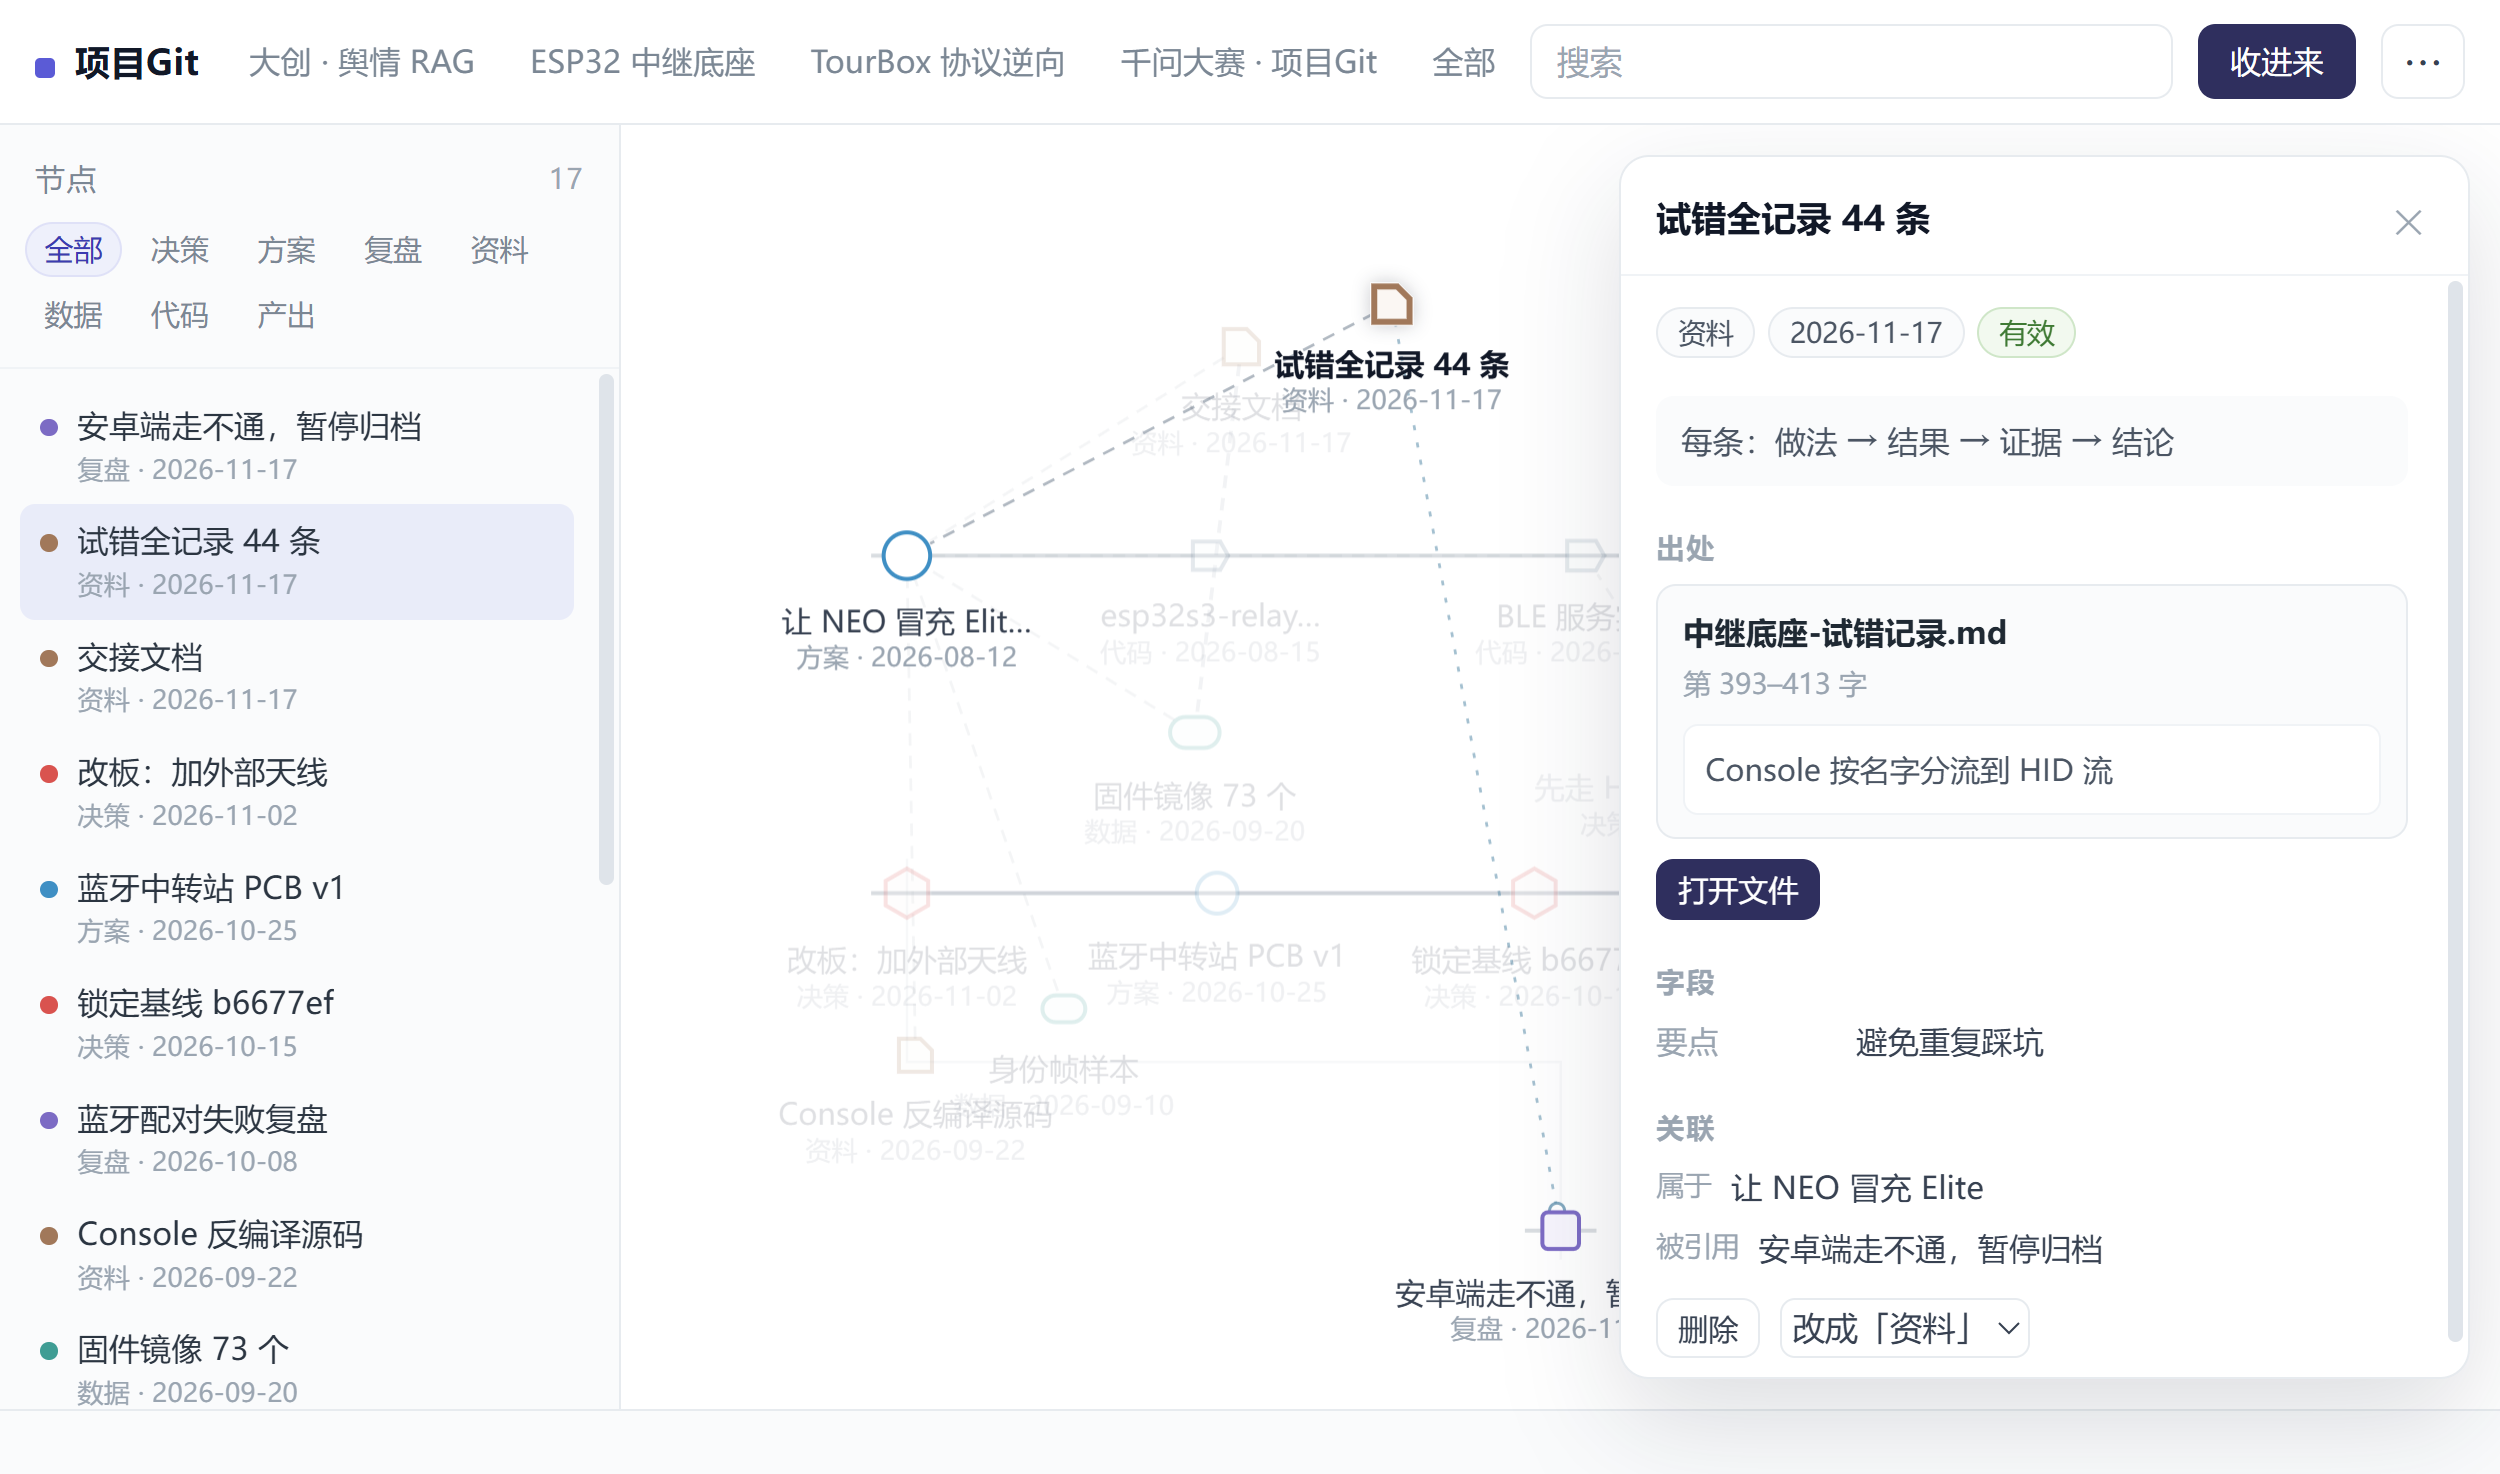
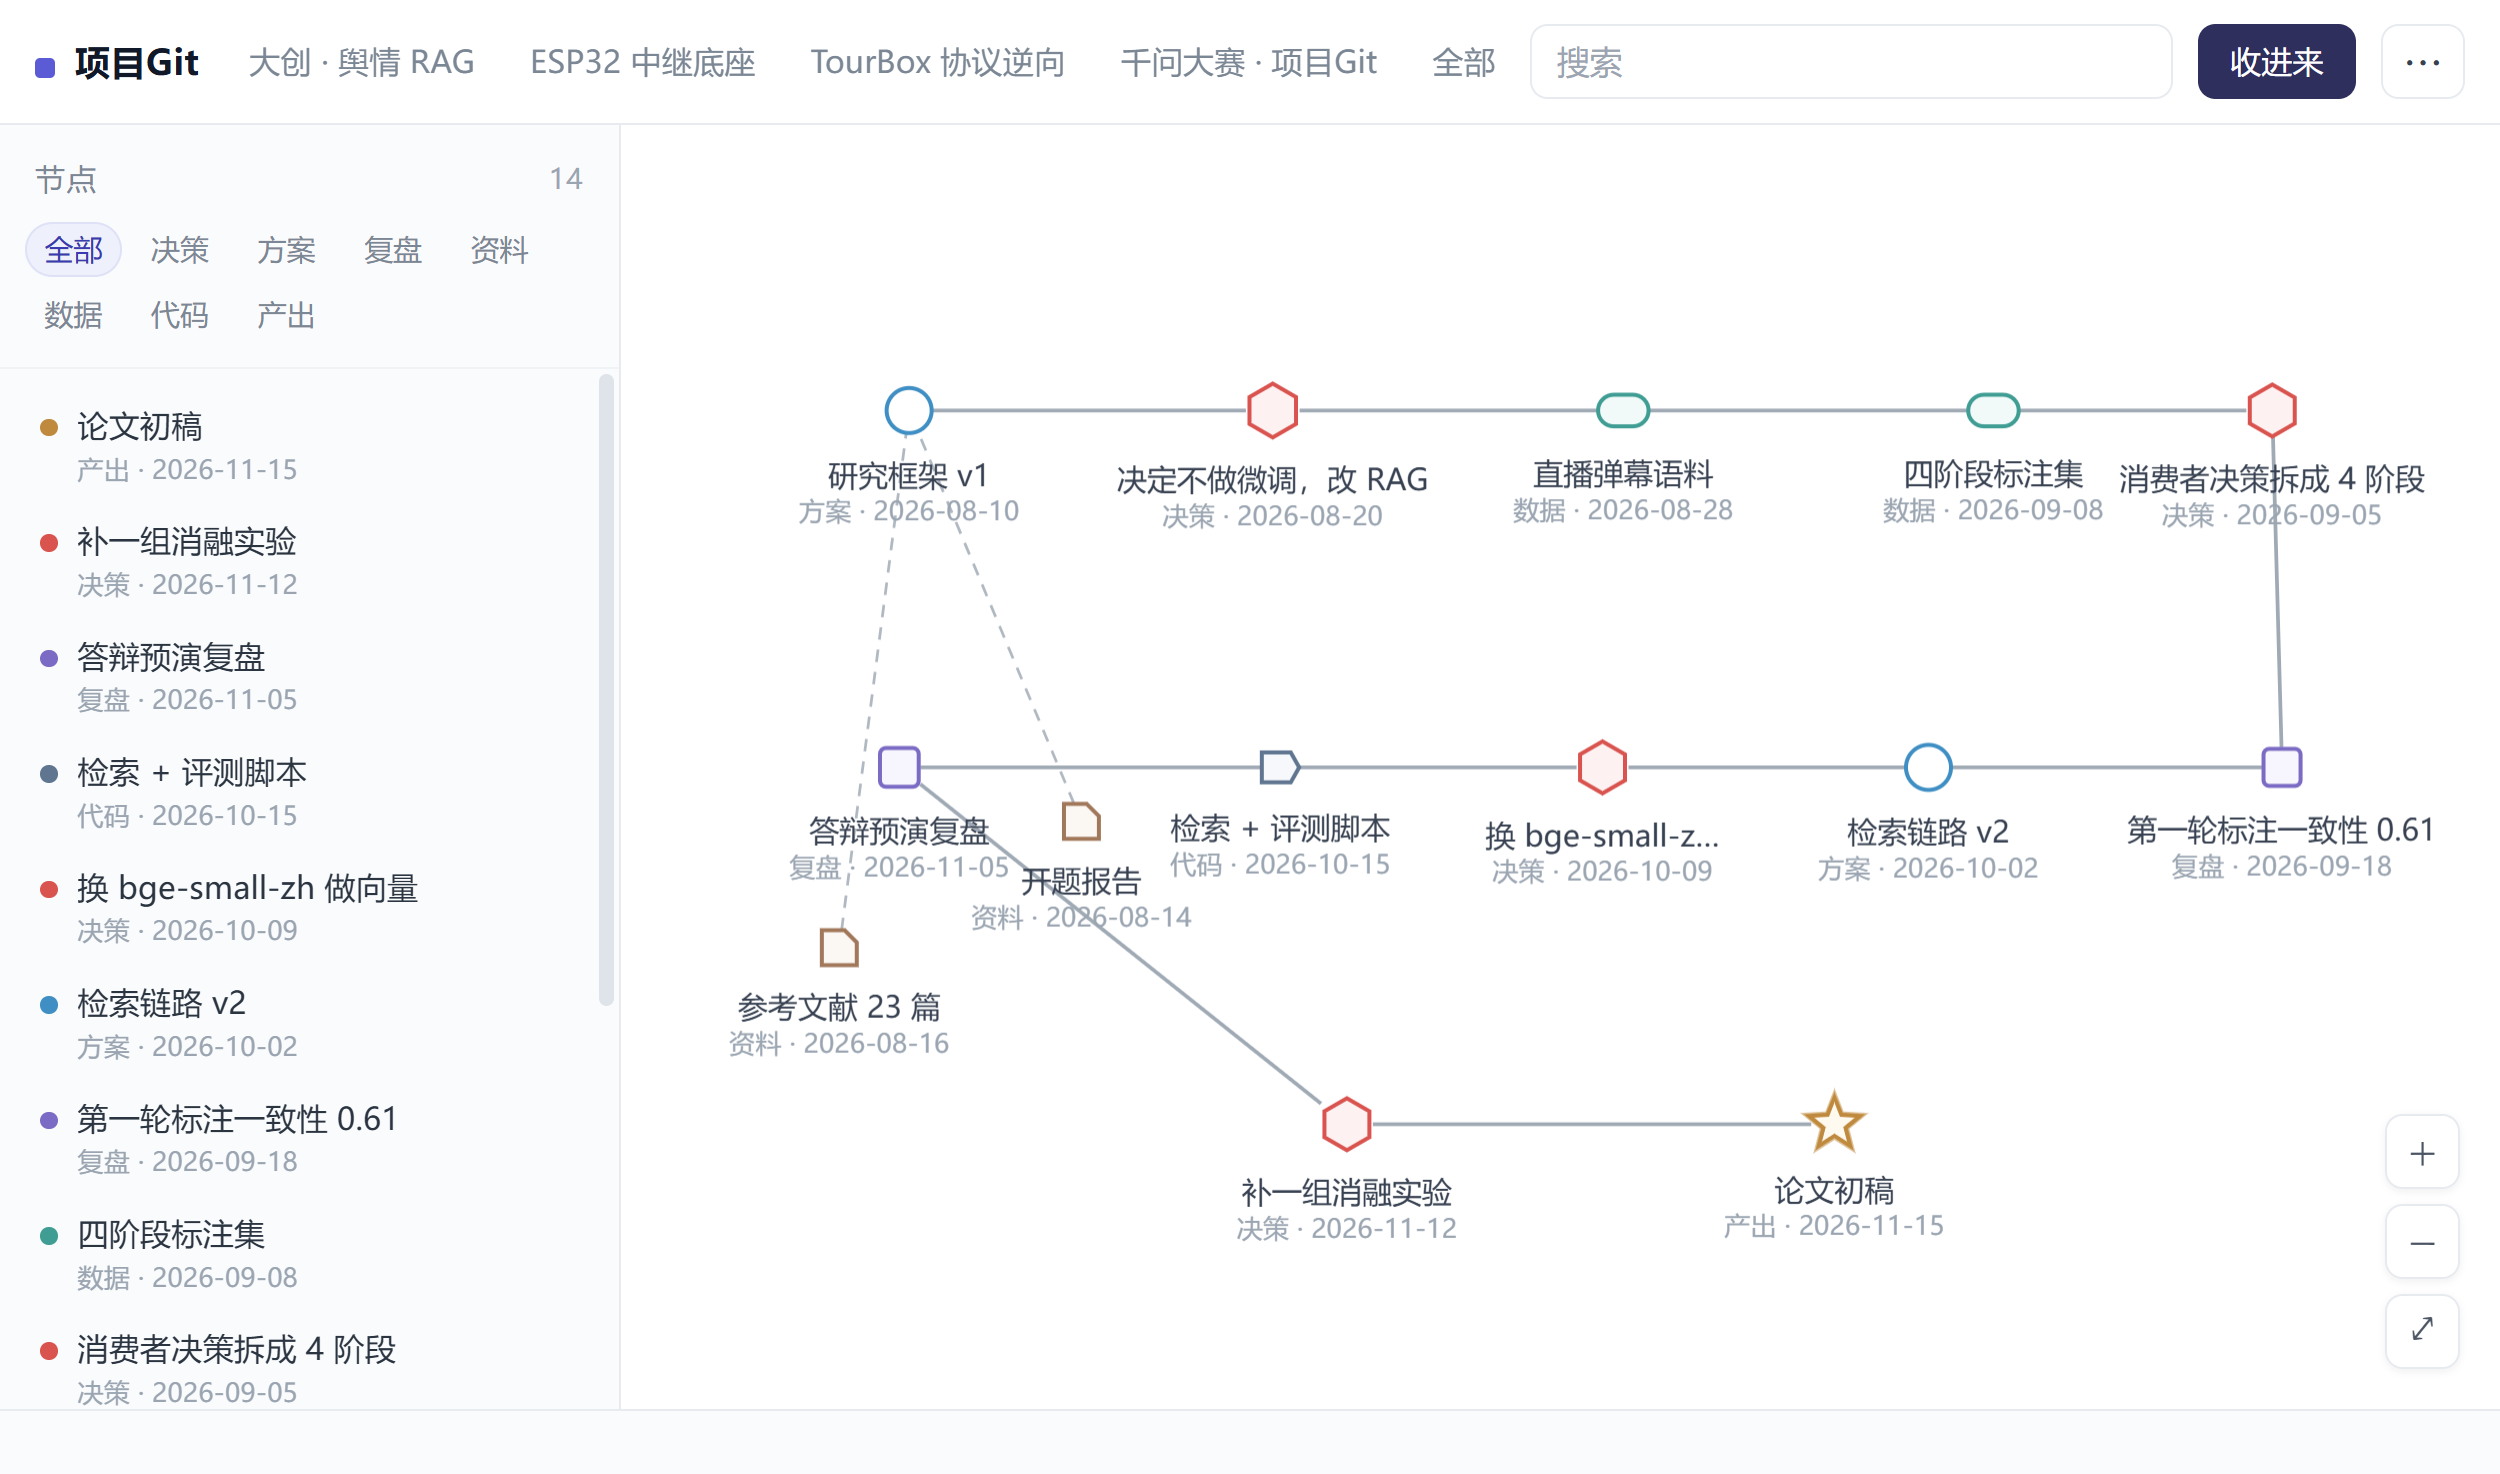
彻底去掉折线与主干基线；主线之间一律实线（附庸才虚线）；隐形引用线只在聚焦资源时出现

diff --git a/desktop/web/app.js b/desktop/web/app.js
@@ -163,7 +163,7 @@ function rebuild() {
   sim = d3.forceSimulation(ns)
     .force('link', d3.forceLink(ls).id((d) => d.id).distance(200).strength(0.3))
     .force('charge', d3.forceManyBody().strength(-1150).distanceMax(1100))
-    .force('collide', d3.forceCollide().radius((d) => (d.r + 44)).iterations(2))
+    .force('collide', d3.forceCollide().radius((d) => (d.r + 52)).iterations(2))
     .force('y', d3.forceY((d) => (d.main ? d.fy : (d.y >= 0 ? 265 : -265))).strength(0.06))
     .force('x', d3.forceX((d) => d.fx != null ? d.fx : ((msOf(d.n.content_at) || t0) - t0) / Math.max(1, t1 - t0) * 520 - 260).strength(0.08))
     .alphaDecay(0.03)
@@ -254,46 +254,10 @@ function draw() {
 
   const focus = active && active.size ? active : null;
 
-  // 主干基线：一条很淡的横线，让“主脉络”一眼可见
-  const mainNodes = ns.filter((d) => d.main);
-  if (mainNodes.length > 1) {
-    const byRow = new Map();
-    mainNodes.forEach((d) => {
-      const r = Math.round(d.fy);
-      if (!byRow.has(r)) byRow.set(r, []);
-      byRow.get(r).push(d);
-    });
-    byRow.forEach((list, y) => {
-      list.sort((a, b) => a.x - b.x);
-      ctx.strokeStyle = 'rgba(120,132,146,0.28)';
-      ctx.lineWidth = 1.6 / cam.k;
-      ctx.beginPath();
-      ctx.moveTo(list[0].x - 26, y);
-      ctx.lineTo(list[list.length - 1].x + 26, y);
-      ctx.stroke();
-    });
-  }
-
   ls.forEach((l) => {
     const a = byId.get(l.source.id || l.source), b = byId.get(l.target.id || l.target);
     if (!a || !b) return;
 
-    // 主干换行处：直角连接
-    if (a.main && b.main && Math.abs(a.fy - b.fy) > 20 && l.kind === 'derived') {
-      const on2 = !focus || (focus.has(a.id) && focus.has(b.id));
-      ctx.globalAlpha = on2 ? 1 : 0.14;
-      ctx.strokeStyle = 'rgba(158,170,183,0.6)';
-      ctx.lineWidth = 1 / cam.k;
-      const yMid = (a.y + b.y) / 2;
-      ctx.beginPath();
-      ctx.moveTo(a.x, a.y + a.h / 2);
-      ctx.lineTo(a.x, yMid);
-      ctx.lineTo(b.x, yMid);
-      ctx.lineTo(b.x, b.y - b.h / 2);
-      ctx.stroke();
-      ctx.globalAlpha = 1;
-      return;
-    }
     const on = !focus || (focus.has(a.id) && focus.has(b.id));
     const isSup = l.kind === 'supersedes';
     const dead = a.n.status === 'abandoned' || b.n.status === 'abandoned';
@@ -301,7 +265,7 @@ function draw() {
     const RES = ['doc', 'data', 'code', 'output', 'asset'];
     const side = RES.includes(a.n.type) ? a : (RES.includes(b.n.type) ? b : null);
     const owner = side === a ? b : (side === b ? a : null);
-    const isResLink = !!(side && owner && (owner.main || side.main));
+    const isResLink = !!(side && owner && (side.main !== owner.main));
     const p1 = edgePoint(a, b), p2 = edgePoint(b, a);
 
     ctx.globalAlpha = on ? 1 : 0.14;
@@ -342,7 +306,9 @@ function draw() {
   ctx.globalAlpha = 1;
 
   // 隐形引用线：只有聚焦（悬停/选中/拖动）时才显现
-  if (focus) {
+  const focusNode = focus ? S.nodes.find((n) => n.id === (hovered || selected)) : null;
+  const RES_TYPES = ['doc', 'data', 'code', 'output', 'asset'];
+  if (focus && focusNode && RES_TYPES.includes(focusNode.type)) {
     hls.forEach((l) => {
       const a = byId.get(l.source.id || l.source), b = byId.get(l.target.id || l.target);
       if (!a || !b) return;

diff --git a/tools/fixline.py b/tools/fixline.py
@@ -1,0 +1,16 @@
+import io
+p = r"desktop\web\app.js"
+s = io.open(p, encoding="utf-8").read()
+
+# 1) 删掉“主干基线”（那条铺在底下的横线）
+i1 = s.index("  // 主干基线：一条很淡的横线")
+i2 = s.index("  ls.forEach((l) => {")
+s = s[:i1] + s[i2:]
+
+# 2) 删掉“主干换行处：直角连接”——所有线一律直线
+a1 = s.index("    // 主干换行处：直角连接")
+a2 = s.index("    const on = !focus || (focus.has(a.id) && focus.has(b.id));", a1)
+s = s[:a1] + s[a2:]
+
+io.open(p, "w", encoding="utf-8").write(s)
+print("removed:", "yMid" in s, "byRow" in s)
